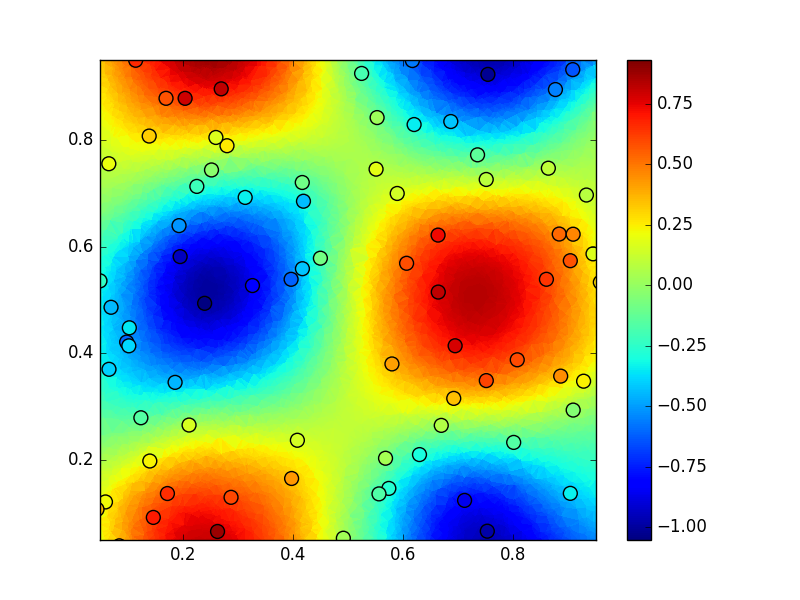
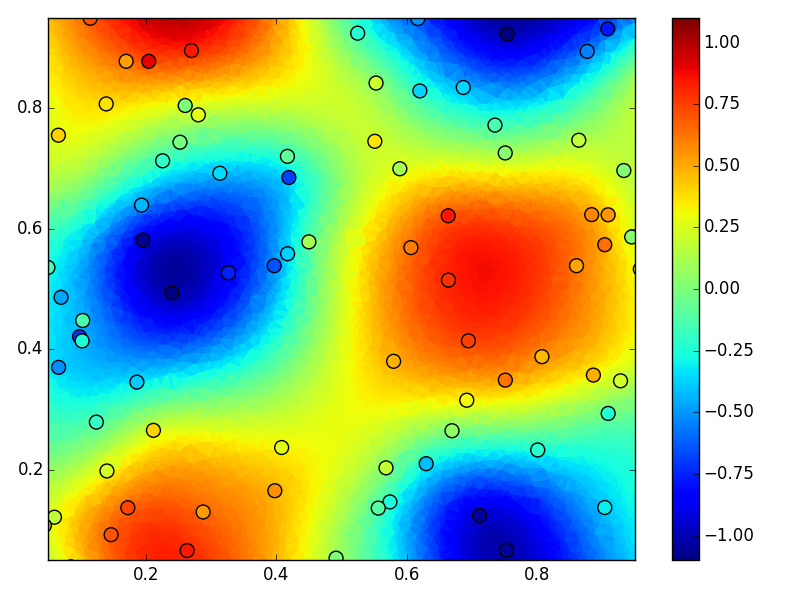
more docs

diff --git a/demo/pde/spectral/2d/quick_laplacian.py b/demo/pde/spectral/2d/quick_laplacian.py
@@ -9,12 +9,18 @@ from rbf.domain import circle
 from rbf.nodes import menodes
 import matplotlib.pyplot as plt
 
-def forcing(x,y):
-  # an arbitrary forcing function
-  return -1 + np.sqrt(x**2 + y**2)
-  
-vert,smp = circle() # use predefined domain geometry
-N = 100 # total number of nodes
+# define the problem domain
+vert = np.array([[0.762,0.057],[0.492,0.247],[0.225,0.06 ],[0.206,0.056],
+                 [0.204,0.075],[0.292,0.398],[0.043,0.609],[0.036,0.624],
+                 [0.052,0.629],[0.373,0.63 ],[0.479,0.953],[0.49 ,0.966],
+                 [0.503,0.952],[0.611,0.629],[0.934,0.628],[0.95 ,0.622],
+                 [0.941,0.607],[0.692,0.397],[0.781,0.072],[0.779,0.055]])
+
+smp = np.array([[0,1],[1,2],[2,3],[3,4],[4,5],[5,6],[6,7],[7,8],[8,9],
+                [9,10],[10,11],[11,12],[12,13],[13,14],[14,15],[15,16],
+                [16,17],[17,18],[18,19],[19,0]])
+
+N = 500 # total number of nodes
 nodes,smpid = menodes(N,vert,smp) # generate nodes
 boundary, = (smpid>=0).nonzero() # identify boundary nodes
 interior, = (smpid==-1).nonzero() # identify interior nodes
@@ -25,16 +31,20 @@ A[interior]  = phs3(nodes[interior],nodes,diff=[2,0])
 A[interior] += phs3(nodes[interior],nodes,diff=[0,2]) 
 A[boundary,:] = phs3(nodes[boundary],nodes)
 d = np.empty(N)
-d[interior] = forcing(nodes[interior,0],nodes[interior,1]) 
+d[interior] = -100.0
 d[boundary] = 0.0
 
-# solve the PDE
+# Solve the PDE
 coeff = np.linalg.solve(A,d) # solve for the RBF coefficients
-itp = menodes(2000,vert,smp)[0] # evaluate the solution at these points
-soln = phs3(itp,nodes).dot(coeff) 
+itp = menodes(10000,vert,smp)[0] # interpolation points
+soln = phs3(itp,nodes).dot(coeff) # evaluate at the interp points
 
-# solution at the interpolation points
-plt.tripcolor(itp[:,0],itp[:,1],soln)
-plt.plot(nodes[:,0],nodes[:,1],'ko')
-plt.colorbar()
+fig,ax = plt.subplots()
+p = ax.scatter(itp[:,0],itp[:,1],s=20,c=soln,edgecolor='none')
+ax.set_aspect('equal')
+ax.plot(nodes[:,0],nodes[:,1],'ko',markersize=4)
+ax.set_xlim((0.025,0.975))
+ax.set_ylim((0.03,0.98))
+plt.colorbar(p,ax=ax)
+plt.tight_layout()
 plt.show()

diff --git a/demo/filter/filter_lena.py b/demo/filter/filter_lena.py
@@ -21,16 +21,11 @@ points_obs = np.random.normal(0.5,0.25,(N,2))
 u_obs = signal(points_obs)
 u_obs += np.random.normal(0.0,0.5,N)
 
-# filter parameters
-size = 20 # stencil size
-cutoff = 40 # cutoff frequency
-
 # find filtered solution
-soln,sigma = filter(points_obs,u_obs,
-                    cutoff=cutoff,size=size)
+soln,sigma = filter(points_obs,u_obs,cutoff=40,size=20)
 
 # plot the observed and filtered results
-fig,ax = plt.subplots(1,2,figsize=(10,4))
+fig,ax = plt.subplots(2,1,figsize=(6,10))
 ax[0].set_aspect('equal')
 ax[0].set_xlim((0,1))
 ax[0].set_ylim((0,1))
@@ -39,17 +34,13 @@ ax[0].grid()
 ax[1].set_aspect('equal')
 ax[1].set_xlim((0,1))
 ax[1].set_ylim((0,1))
-ax[1].set_title(u'Filtered Solution $(\omega_c = %s)$' % cutoff)
+ax[1].set_title(u'Filtered Solution $(\omega_c = 40)$')
 ax[1].grid()
-# plot the noisy scattered data 
 p1 = ax[0].scatter(points_obs[:,0],points_obs[:,1],s=2,c=u_obs,
-                   edgecolor='none',cmap='Greys_r',
-                   vmin=-0.2,vmax=1.2)
+                   edgecolor='none',cmap='Greys_r',vmin=-0.2,vmax=1.2)
 plt.colorbar(p1,ax=ax[0])
-# plot the filtered solution
 p2 = ax[1].scatter(points_obs[:,0],points_obs[:,1],s=2,c=soln,
-                   edgecolor='none',cmap='Greys_r',
-                   vmin=-0.2,vmax=1.2)
+                   edgecolor='none',cmap='Greys_r',vmin=-0.2,vmax=1.2)
 plt.colorbar(p2,ax=ax[1])
 plt.tight_layout()
 plt.show()

diff --git a/demo/interpolate/quick_interp2d.py b/demo/interpolate/quick_interp2d.py
@@ -8,7 +8,7 @@ np.random.seed(1)
 # create noisy data
 x_obs = np.random.random((100,2)) # observation points
 u_obs = np.sin(2*np.pi*x_obs[:,0])*np.cos(2*np.pi*x_obs[:,1])
-u_obs += np.random.normal(0.0,0.1,100)
+u_obs += np.random.normal(0.0,0.2,100)
 
 # create smoothed interpolant
 I = RBFInterpolant(x_obs,u_obs,penalty=0.001)
@@ -17,9 +17,10 @@ I = RBFInterpolant(x_obs,u_obs,penalty=0.001)
 x_itp = np.random.random((10000,2))
 u_itp = I(x_itp)
 
-plt.tripcolor(x_itp[:,0],x_itp[:,1],u_itp)
-plt.scatter(x_obs[:,0],x_obs[:,1],s=100,c=u_obs)
+plt.tripcolor(x_itp[:,0],x_itp[:,1],u_itp,vmin=-1.1,vmax=1.1)
+plt.scatter(x_obs[:,0],x_obs[:,1],s=100,c=u_obs,vmin=-1.1,vmax=1.1)
 plt.xlim((0.05,0.95))
 plt.ylim((0.05,0.95))
 plt.colorbar()
+plt.tight_layout()
 plt.show()

diff --git a/docs/source/index.rst b/docs/source/index.rst
@@ -41,9 +41,9 @@ Quick Demo
 ----------
 Smoothing Scattered Data
 ++++++++++++++++++++++++
-Generating synthetic scattered data with added noise and then fitting 
-it with a smoothed interpolant. See :doc:`filter` for smoothing large 
-data sets.
+In this example we generate synthetic scattered data with added noise 
+and then fit it with a smoothed interpolant. See :doc:`filter` for 
+smoothing large data sets.
   
 .. code-block:: python
 
@@ -53,9 +53,9 @@ data sets.
   np.random.seed(1)
 
   # create noisy data
-  x_obs = np.random.random((100,2)) # observation points   
+  x_obs = np.random.random((100,2)) # observation points
   u_obs = np.sin(2*np.pi*x_obs[:,0])*np.cos(2*np.pi*x_obs[:,1])
-  u_obs += np.random.normal(0.0,0.1,100)
+  u_obs += np.random.normal(0.0,0.2,100)
 
   # create smoothed interpolant
   I = RBFInterpolant(x_obs,u_obs,penalty=0.001)
@@ -64,11 +64,12 @@ data sets.
   x_itp = np.random.random((10000,2))
   u_itp = I(x_itp)
 
-  plt.tripcolor(x_itp[:,0],x_itp[:,1],u_itp)
-  plt.scatter(x_obs[:,0],x_obs[:,1],s=100,c=u_obs)
+  plt.tripcolor(x_itp[:,0],x_itp[:,1],u_itp,vmin=-1.1,vmax=1.1)
+  plt.scatter(x_obs[:,0],x_obs[:,1],s=100,c=u_obs,vmin=-1.1,vmax=1.1)
   plt.xlim((0.05,0.95))
   plt.ylim((0.05,0.95))
   plt.colorbar()
+  plt.tight_layout()
   plt.show()
 
 The above code will produce this plot, which shows the observations as 
@@ -78,8 +79,8 @@ scatter points and the smoothed interpolant as the color field
 
 Solving PDEs
 ++++++++++++
-Solving the Poisson equation over a circle with the spectral RBF 
-method.
+In this example we solve the Poisson equation with a constant forcing 
+term using the spectral RBF method.
 
 .. code-block:: python
 
@@ -89,12 +90,18 @@ method.
   from rbf.nodes import menodes
   import matplotlib.pyplot as plt
 
-  def forcing(x,y):
-    # an arbitrary forcing function
-    return -1 + np.sqrt(x**2 + y**2)
+  # define the problem domain
+  vert = np.array([[0.762,0.057],[0.492,0.247],[0.225,0.06 ],[0.206,0.056],
+                   [0.204,0.075],[0.292,0.398],[0.043,0.609],[0.036,0.624],
+                   [0.052,0.629],[0.373,0.63 ],[0.479,0.953],[0.49 ,0.966],
+                   [0.503,0.952],[0.611,0.629],[0.934,0.628],[0.95 ,0.622],
+                   [0.941,0.607],[0.692,0.397],[0.781,0.072],[0.779,0.055]])
 
-  vert,smp = circle() # use predefined domain geometry
-  N = 100 # total number of nodes
+  smp = np.array([[0,1],[1,2],[2,3],[3,4],[4,5],[5,6],[6,7],[7,8],[8,9],
+                  [9,10],[10,11],[11,12],[12,13],[13,14],[14,15],[15,16],
+                  [16,17],[17,18],[18,19],[19,0]])
+
+  N = 500 # total number of nodes
   nodes,smpid = menodes(N,vert,smp) # generate nodes
   boundary, = (smpid>=0).nonzero() # identify boundary nodes
   interior, = (smpid==-1).nonzero() # identify interior nodes
@@ -105,22 +112,27 @@ method.
   A[interior] += phs3(nodes[interior],nodes,diff=[0,2])
   A[boundary,:] = phs3(nodes[boundary],nodes)
   d = np.empty(N)
-  d[interior] = forcing(nodes[interior,0],nodes[interior,1])
-  d[boundary] = 0.0                                           
-  
-  # solve the PDE
-  coeff = np.linalg.solve(A,d) # solve for the RBF coefficients
-  itp = menodes(2000,vert,smp)[0] # evaluate the solution at these points
-  soln = phs3(itp,nodes).dot(coeff)                     
+  d[interior] = -100.0
+  d[boundary] = 0.0
 
-  # solution at the interpolation points
-  plt.tripcolor(itp[:,0],itp[:,1],soln)
-  plt.plot(nodes[:,0],nodes[:,1],'ko')
-  plt.colorbar()
+  # Solve the PDE
+  coeff = np.linalg.solve(A,d) # solve for the RBF coefficients
+  itp = menodes(10000,vert,smp)[0] # interpolation points
+  soln = phs3(itp,nodes).dot(coeff) # evaluate at the interp points
+
+  fig,ax = plt.subplots()
+  p = ax.scatter(itp[:,0],itp[:,1],s=20,c=soln,edgecolor='none')
+  ax.set_aspect('equal')
+  ax.plot(nodes[:,0],nodes[:,1],'ko',markersize=4)
+  ax.set_xlim((0.025,0.975))
+  ax.set_ylim((0.03,0.98))
+  plt.colorbar(p,ax=ax)
+  plt.tight_layout()
   plt.show()
+                                                                                                    
 
 The above code will produce this plot, which shows the collocation 
-nodes as black points and the interpolated solution as the color field
+nodes as black points and the interpolated solution as the color field.
 
 .. image:: ../figures/pde.png
 

diff --git a/docs/source/filter.rst b/docs/source/filter.rst
@@ -40,11 +40,10 @@ is set to 40.
   u_obs += np.random.normal(0.0,0.5,N)
 
   # find filtered solution
-  soln,sigma = filter(points_obs,u_obs,
-                      cutoff=40,size=20)
+  soln,sigma = filter(points_obs,u_obs,cutoff=40,size=20)
 
   # plot the observed and filtered results
-  fig,ax = plt.subplots(1,2,figsize=(10,4))
+  fig,ax = plt.subplots(2,1,figsize=(6,10))
   ax[0].set_aspect('equal')
   ax[0].set_xlim((0,1))
   ax[0].set_ylim((0,1))
@@ -55,15 +54,11 @@ is set to 40.
   ax[1].set_ylim((0,1))
   ax[1].set_title(u'Filtered Solution $(\omega_c = 40)$')
   ax[1].grid()
-  # plot the noisy scattered data 
   p1 = ax[0].scatter(points_obs[:,0],points_obs[:,1],s=2,c=u_obs,
-                     edgecolor='none',cmap='Greys_r',
-                     vmin=-0.2,vmax=1.2)
+                     edgecolor='none',cmap='Greys_r',vmin=-0.2,vmax=1.2)
   plt.colorbar(p1,ax=ax[0])
-  # plot the filtered solution
   p2 = ax[1].scatter(points_obs[:,0],points_obs[:,1],s=2,c=soln,
-                     edgecolor='none',cmap='Greys_r',
-                     vmin=-0.2,vmax=1.2)
+                     edgecolor='none',cmap='Greys_r',vmin=-0.2,vmax=1.2)
   plt.colorbar(p2,ax=ax[1])
   plt.tight_layout()
   plt.show()
